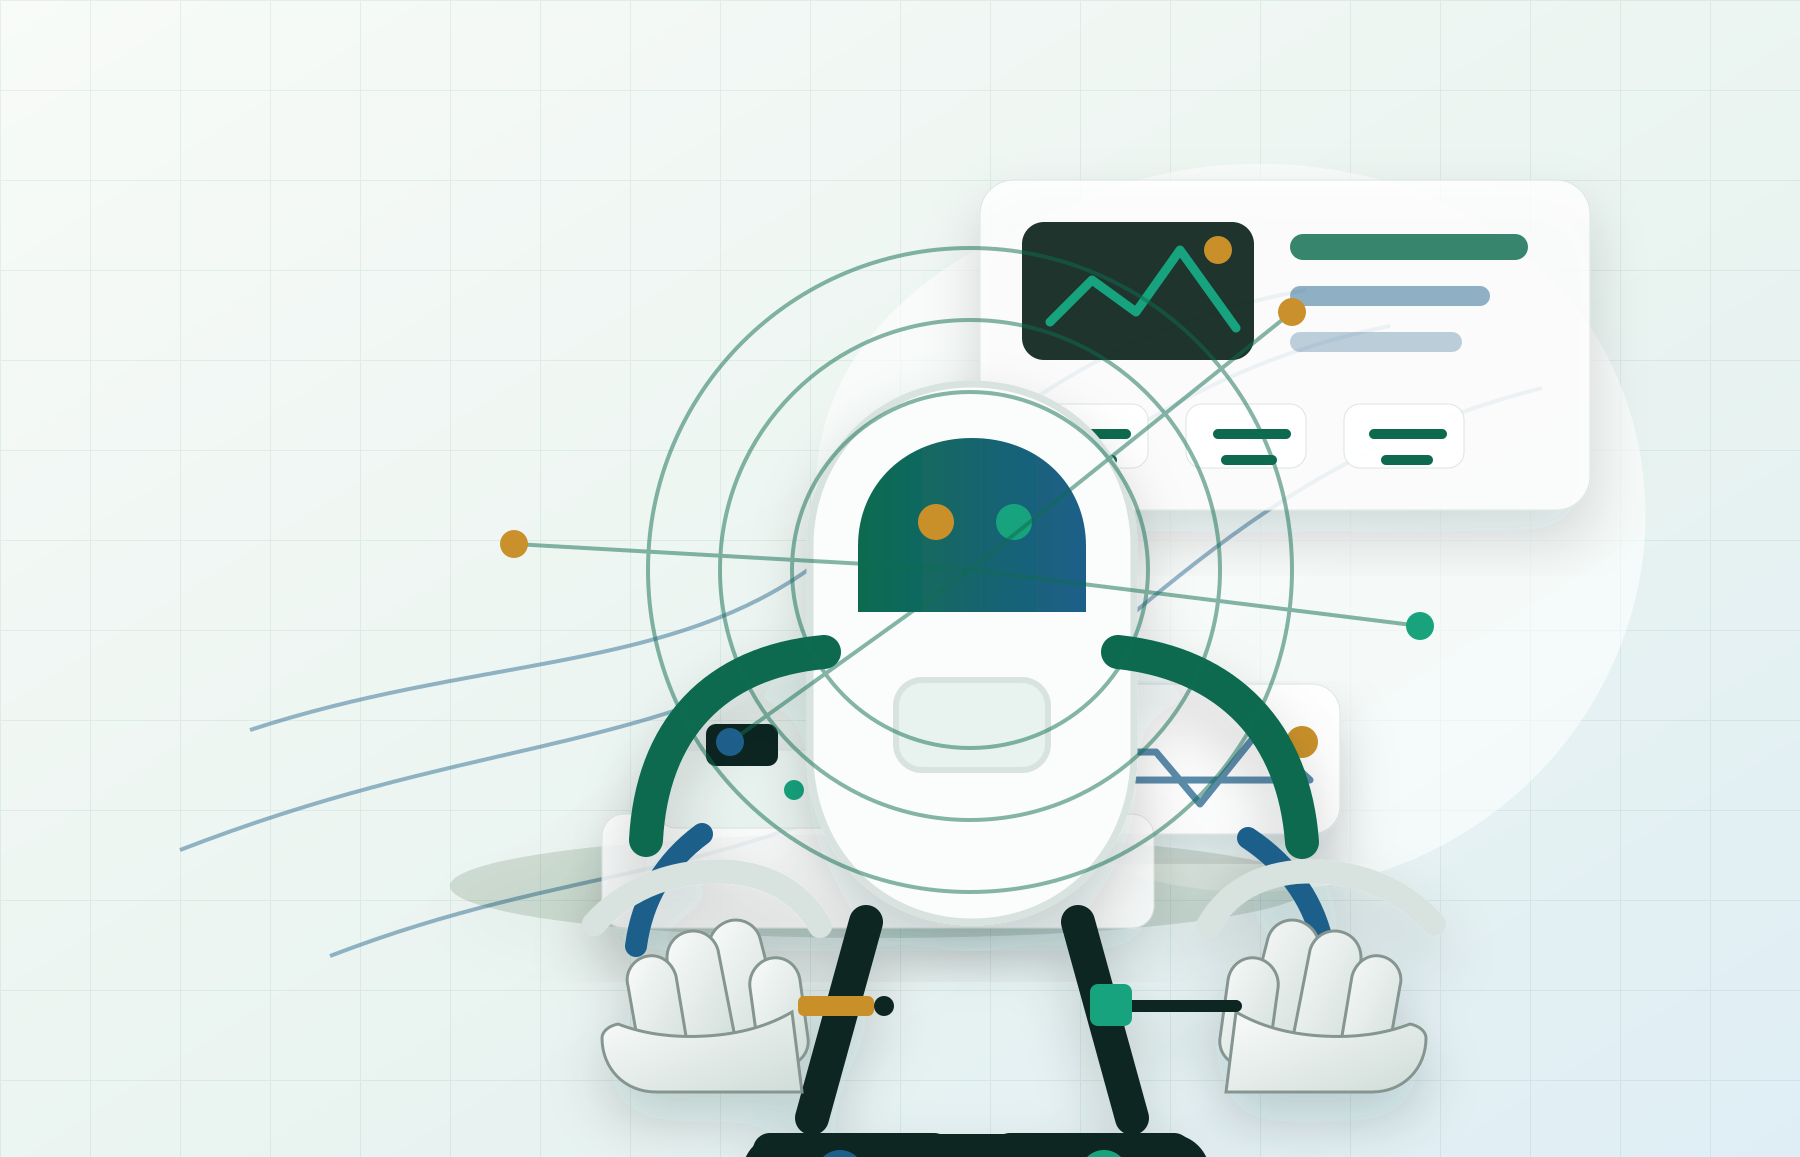
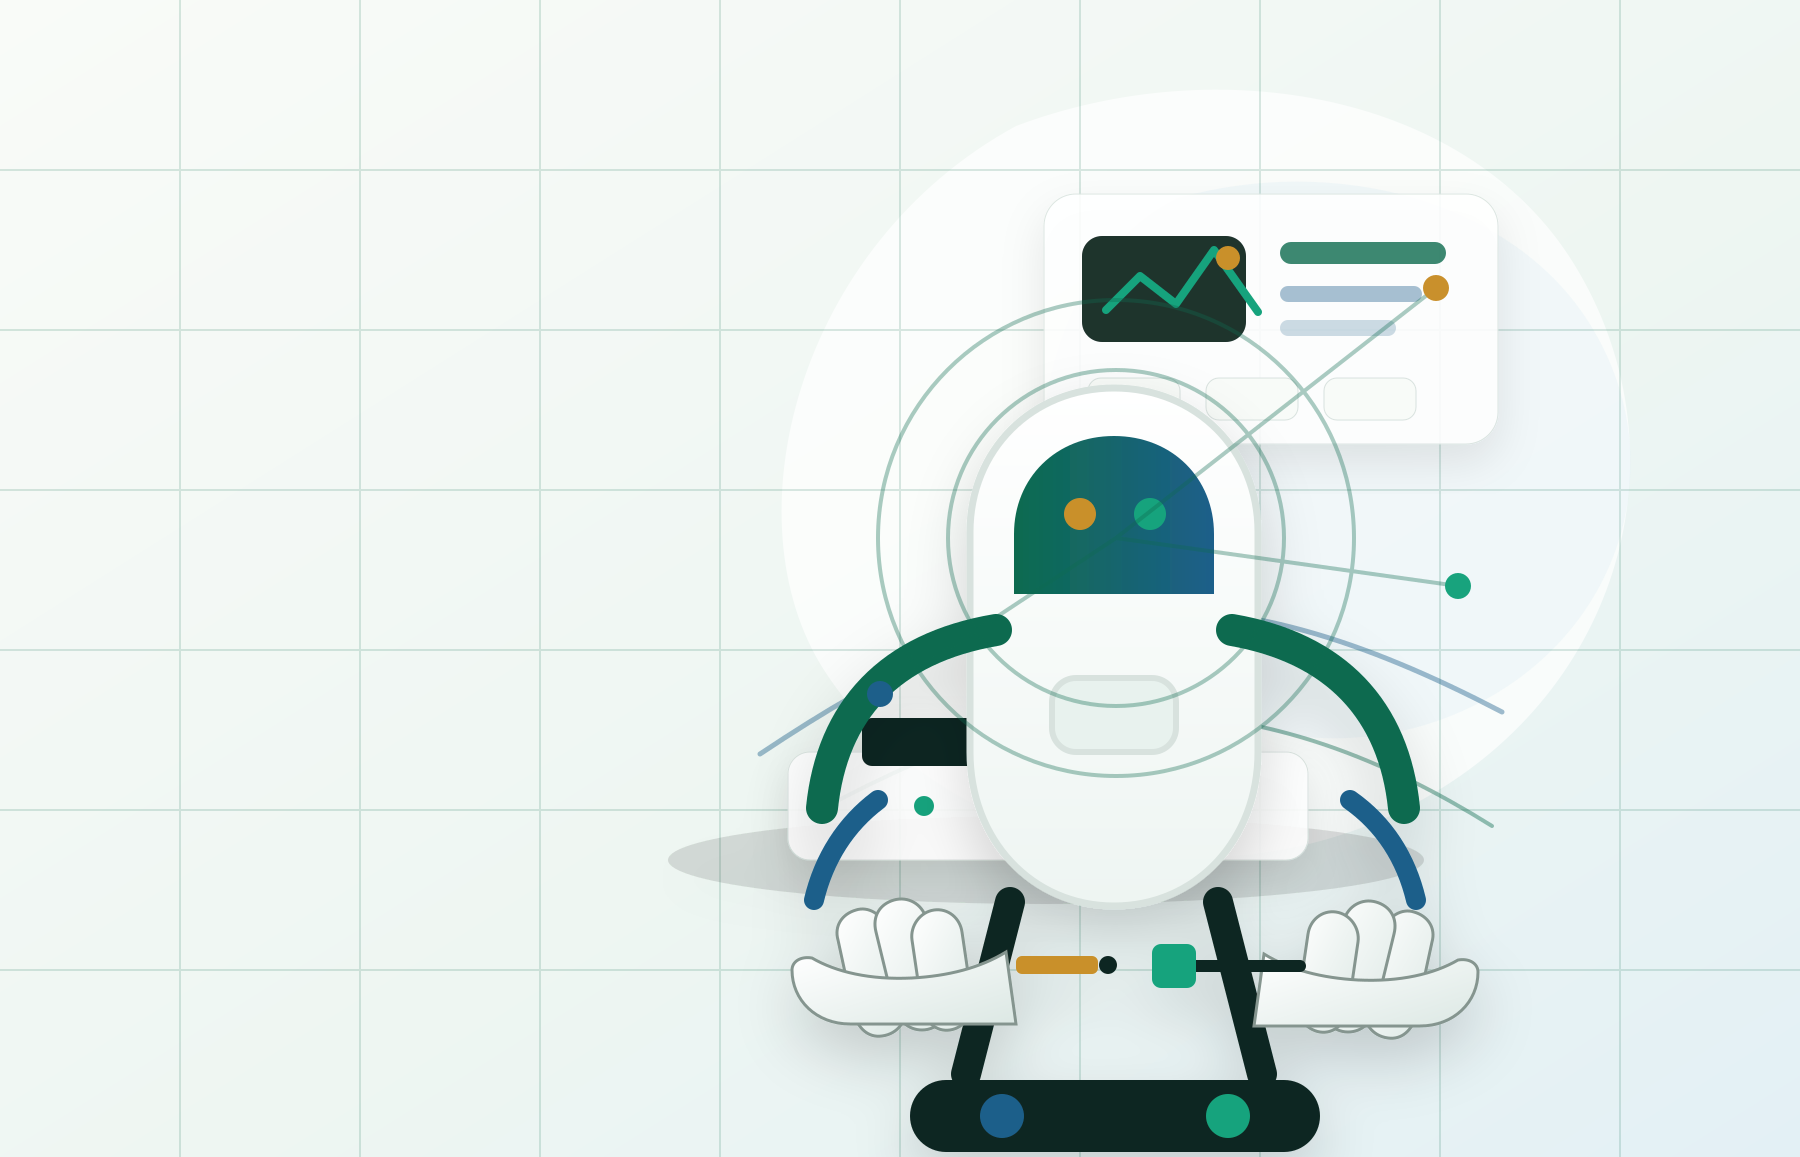
Simplify hero robotics illustration

diff --git a/index.html b/index.html
@@ -50,7 +50,7 @@
         <div class="hero-visual" aria-hidden="true">
           <div class="field-grid"></div>
           <figure class="hero-image-frame">
-            <img src="assets/embodied-ai-hero.png?v=3" alt="">
+            <img src="assets/embodied-ai-hero.png?v=4" alt="">
           </figure>
         </div>
         <aside class="signal-panel" aria-label="公司方向摘要">